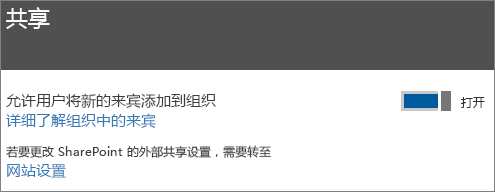
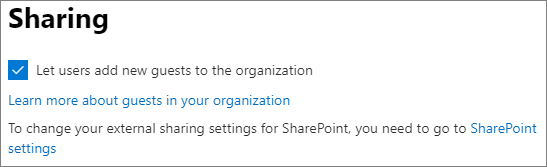
commit translated contents

diff --git a/Enterprise/use-the-centralized-deployment-powershell-cmdlets-to-manage-add-ins.md b/Enterprise/use-the-centralized-deployment-powershell-cmdlets-to-manage-add-ins.md
@@ -1,9 +1,9 @@
 ---
 title: 使用集中部署 PowerShell cmdlet 管理外接程序
-ms.author: twerner
-author: twernermsft
-manager: scotv
-ms.date: 5/31/2017
+ms.author: kvice
+author: kelleyvice-msft
+manager: laurawi
+ms.date: 1/24/2020
 audience: Admin
 ms.topic: article
 ms.service: o365-administration
@@ -16,12 +16,12 @@ search.appverid:
 - BCS160
 ms.assetid: 94f4e86d-b8e5-42dd-b558-e6092f830ec9
 description: 使用集中部署 PowerShell cmdlet 可帮助您部署和管理 Office 365 组织的 Office 外接程序。
-ms.openlocfilehash: 72f7ad69f1154c65ee5f6bd608770461ae775257
-ms.sourcegitcommit: 35c04a3d76cbe851110553e5930557248e8d4d89
+ms.openlocfilehash: 0577a4d69d7b6d32164e66613a9d38a71d9766e4
+ms.sourcegitcommit: 3ed7b1eacf009581a9897524c181afa3e555ad3f
 ms.translationtype: MT
 ms.contentlocale: zh-CN
-ms.lasthandoff: 11/07/2019
-ms.locfileid: "38030857"
+ms.lasthandoff: 01/28/2020
+ms.locfileid: "41570869"
 ---
 # <a name="use-the-centralized-deployment-powershell-cmdlets-to-manage-add-ins"></a>使用集中部署 PowerShell cmdlet 管理外接程序
 
@@ -106,7 +106,7 @@ Get-OrganizationAddIn -ProductId 6a75788e-1c6b-4e9b-b5db-5975a2072122
 若要获取所有外接程序的完整详细信息以及分配的用户和组，请将**OrganizationAddIn** cmdlet 的输出通过管道传递给格式列表 cmdlet，如下面的示例所示。
   
 ```powershell
-Get-OrganizationAddIn |Format-List
+foreach($G in (Get-organizationAddIn)){Get-OrganizationAddIn -ProductId $G.ProductId | Format-List}
 ```
 
 ## <a name="turn-on-or-turn-off-an-add-in"></a>打开或关闭外接程序
@@ -168,53 +168,54 @@ Set-OrganizationAddIn -ProductId 6a75788e-1c6b-4e9b-b5db-5975a2072122 -ManifestP
 Remove-OrganizationAddIn -ProductId 6a75788e-1c6b-4e9b-b5db-5975a2072122
 ```
 
-## <a name="customize-microsoft-store-add-ins-for-your-organization"></a>为你的组织自定义 Microsoft Store 外接程序
+<!--
+## Customize Microsoft Store add-ins for your organization
 
-必须先自定义外接程序，然后才能将其部署到组织中。 此功能不支持早于版本1.1 的外接程序。 
+You must customize the add-in before you deploy it to your organization. Add-ins older than version 1.1 are not supported by this feature. 
 
-我们建议您先将自定义加载项部署到自己，以确保它按预期工作，然后再将其部署到整个组织。
+We recommend that you deploy a customized add-in  to yourself first to make sure it works as expected before you deploy it to your entire organization.
 
-另请注意以下限制：
-- 所有 Url 都必须是绝对 Url （包括 http 或 https）且有效。
-- *DisplayName*不得超过125个字符 
-- *DisplayName*、*资源*和*appdomain*不能包含以下字符： 
+Note also the following restrictions:
+- All URLs must be absolute (include http or https) and valid.
+- *DisplayName* must not exceed 125 characters 
+- *DisplayName*, *Resources* and *AppDomains* must not include the following characters: 
  
     - \<
     -  \>
     -  ;
     -  =   
 
-如果要自定义已部署的加载项，则必须将其卸载到管理中心，并查看 "[从本地缓存中删除加载项](#remove-an-add-in-from-local-cache)"，以了解将其从已部署到的每台计算机中删除的步骤。
+If you want to customize an add-in that has been deployed, you have to uninstall it in the admin center, and see [remove an add-in from local cache](#remove-an-add-in-from-local-cache) for steps to remove it from each computer it has been deployed to.
 
-若要自定义外接程序，请运行**OrganizationAddInOverrides** Cmdlet 和*ProductId*作为参数，后跟要覆盖的标记和新值。 若要了解如何获取*产品 id* ，请参阅本文中的获取外接程序的[详细信息](#get-details-of-an-add-in)。 例如：
+To customize an add-in, run the **Set –OrganizationAddInOverrides** cmdlet with the *ProductId* as a parameter, followed by the tag you want to overwrite and the new value. To find out how to get the *ProductId* see [get details of an add-in](#get-details-of-an-add-in) in this article. For example:
 
 ```powershell
  Set-OrganizationAddInOverrides -ProductId 5b31b349-2c41-4f94-b720-6ee40349d391 -IconUrl "https://site.com/img.jpg" 
 ```
-若要自定义外接程序的多个标记，请将这些标记添加到命令行中：
+To customize multiple tags for an add-in, add those tags to the commandline:
 
 ```powershell
 Set-OrganizationAddInOverrides -ProductId 5b31b349-2c41-4f94-b720-6ee40349d391 -Hosts h1, 2 -DisplayName "New DocuSign W" -IconUrl "https://site.com/img.jpg" 
 ```
 
 > [!IMPORTANT]
-> 您必须将多个自定义标记作为一个命令应用于一个加载项。 如果逐个自定义标记，则只会应用最后一个自定义项。 此外，如果错误地自定义标记，则必须删除所有自定义项并重新开始。
+> You must apply multiple customized tags to one add-in as one command. If you customize tags one by one, only the last customization will be applied. Additionally, if you customize a tag by mistake, you must remove all customizations and start over.
 
-### <a name="tags-you-can-customize"></a>您可以自定义的标记
+### Tags you can customize
 
-| Tag                  | 说明          |
+| Tag                  | Description          |
 | :------------------- | :------------------- |
-| \<IconURL>   </br>| 用作加载项图标的图像的 URL （在管理中心中）。 </br> |
-| \<DisplayName>| 加载项的标题（在管理中心中）。|
-| \<主机>| 将支持外接程序的应用程序的列表。|
-| \<SourceLocation> | 外接程序将连接到的源 URL。| 
-| \<Appdomain> | 外接程序可与之连接的域的列表。 | 
-| \<SupportURL>| 用户可用于访问帮助和支持的 URL。 | 
-| \<资源>  | 此标记包含多个元素，包括标题、工具提示和不同大小的图标。| 
+| \<IconURL>   </br>| The URL of the image used as the add-in’s icon (in admin center). </br> |
+| \<DisplayName>| The title of the add-in  (in admin center).|
+| \<Hosts>| List of apps that will support the add-in.|
+| \<SourceLocation> | The source URL that the add-in will connect to.| 
+| \<AppDomains> | A list of domains that the add-in can connect with. | 
+| \<SupportURL>| The URL users can use to access help and support. | 
+| \<Resources>  | This tag contains a number of elements including titles, tooltips, and icons of different sizes.| 
 |
-### <a name="customize-resources-tag"></a>自定义 Resources 标记
+### Customize Resources tag
 
-可以动态自定义<Resources>清单标记中的任何元素。 首先需要检查清单以查找要向其分配新值的元素 id。 <Resources>标记如下所示：
+Any element in the <Resources> tag of the manifest can be customized dynamically. You first need to check the manifest to find the element id to which you want to assign a new value. The <Resources> tag looks like this:
 
 ```
 <Resources>  
@@ -223,45 +224,47 @@ Set-OrganizationAddInOverrides -ProductId 5b31b349-2c41-4f94-b720-6ee40349d391 -
     </bt:Images> 
 </Resources> 
 ``` 
-在这种情况下，图像的元素 id 为 "img16icon"，与关联的值为 "http：<i></i>//site。<i> </i>com/img. "
+In this case, the element id for the image is “img16icon” and the value associated with it is “http:<i></i>//site.<i></i>com/img.jpg.”
 
-确定要自定义的元素后，请在 Powershell 中使用以下命令将新值分配给这些元素：
+Once you have identified the elements you want to customize, use the following command in Powershell to assign new values to the elements:
 
 ```powershell
 Set-OrganizationAddInOverrides -Resources @{“ElementID” = “New Value”; “NextElementID” = “Next New Value”} 
 ```
 
-您可以根据需要自定义多个元素和命令。
+You can customize as many elements with the command as you need to.
 
-### <a name="remove-customization-from-an-add-in"></a>从外接程序中删除自定义项
+### Remove customization from an add-in
 
-当前可用于删除自定义项的唯一选项是一次性删除所有自定义项：
+The only option currently available for deleting customizations is to delete all of them at once:
 
 ```powershell
 Remove-OrganizationAddInOverrides -ProductId 5b31b349-2c41-4f94-b720-6ee40349d391 
 ```
 
-### <a name="view-add-in-customizations"></a>查看加载项自定义项
+### View add-in customizations
 
-若要查看已应用的自定义项列表，请运行**OrganizationAddInOverrides** cmdlet。 如果在没有*ProductId*的情况下运行**OrganizationAddInOverrides** ，则将返回所有应用了替代的外接程序的列表。  
+To view a list of applied customizations, run the **Get-OrganizationAddInOverrides** cmdlet. If **Get-OrganizationAddInOverrides** is run without a *ProductId* then a list of all add-ins with applied overrides are returned.  
 
 ```powershell
 Get-OrganizationAddInOverrides 
 ```
-如果指定了 ProductId，则将返回应用于该外接程序的替代项列表。 
+If ProductId is specified, then a list of overrides applied to that add-in is returned. 
 
 ```powershell
 Get-OrganizationAddInOverrides -ProductId 5b31b349-2c41-4f94-b720-6ee40349d391 
 ```
 
-### <a name="remove-an-add-in-from-local-cache"></a>从本地缓存中删除外接程序
+### Remove an add-in from local cache
 
-如果已部署加载项，则必须先将其从每台计算机的缓存中删除，然后才能对其进行自定义。 从缓存中 remive 外接程序：
+If an add-in has been deployed, it has to be removed from the cache in each computer before it can be customized. To remive an add-in from cache:
 
-1. 导航到 C：\ 中的 "Users" 文件夹 
-1. 转到您的用户文件夹
-1. 导航到 "AppData\Local\Microsoft\Office"，然后选择与您的 Office 版本相关联的文件夹
-1. 在 " *Wef* " 文件夹中，删除 "*清单*" 文件夹。
+1. Navigate to the “Users” folder in C:\ 
+1. Go to your user folder
+1. Navigate to AppData\Local\Microsoft\Office and select the folder associated with your version of Office
+1. In the *Wef* folder delete the *Manifests* folder.
+
+-->
 
 ## <a name="get-detailed-help-for-each-cmdlet"></a>获取每个 cmdlet 的详细帮助
 

diff --git a/Enterprise/microsoft-365-guest-settings.md b/Enterprise/microsoft-365-guest-settings.md
@@ -10,12 +10,12 @@ ms.collection: SPO_Content
 ms.custom: ''
 localization_priority: Priority
 description: 了解 Microsoft 365 中提供的来宾共享设置。
-ms.openlocfilehash: 3181e1abc44ff62bf3973a87a626291b9e946c51
-ms.sourcegitcommit: b5992f367ccae97a8ea538738fe36d3d703cd6e7
+ms.openlocfilehash: 6fba4a8107962ef7ac7da5f83dd2d7f1d75dccb2
+ms.sourcegitcommit: cc84565301f5c5afc8b767f637135de96115fd6d
 ms.translationtype: HT
 ms.contentlocale: zh-CN
-ms.lasthandoff: 12/10/2019
-ms.locfileid: "39919376"
+ms.lasthandoff: 01/30/2020
+ms.locfileid: "41627872"
 ---
 # <a name="microsoft-365-guest-sharing-settings-reference"></a>Microsoft 365 来宾共享设置参考
 
@@ -55,7 +55,7 @@ Microsoft 365 管理中心具有用于共享和 Office 365 组的组织级别设
 
 ### <a name="sharing"></a>共享
 
-**导航：**[Microsoft 365 管理中心](https://admin.microsoft.com) > 设置 > 安全和隐私 > 共享
+**导航：**[Microsoft 365 管理中心](https://admin.microsoft.com) > 设置 > 设置 >“安全和隐私”选项卡 > 共享
 
 ![Microsoft 365 管理中心中的安全和隐私来宾共享设置的屏幕截图](media/sharepoint-security-privacy-sharing-setting.png)
 
@@ -65,7 +65,7 @@ Microsoft 365 管理中心具有用于共享和 Office 365 组的组织级别设
 
 ### <a name="office-365-groups"></a>Office 365 组
 
-**导航：**[Microsoft 365 管理中心](https://admin.microsoft.com) > 设置 > 服务和加载项 > Office 365 组
+**导航：**[Microsoft 365 管理中心](https://admin.microsoft.com) > 设置 > 设置 > Office 365 组
 
 ![Microsoft 365 管理中心中的 Office 365 组来宾设置的屏幕截图](media/office-365-groups-guest-settings.png)
 
@@ -196,11 +196,13 @@ Microsoft 365 管理中心具有用于共享和 Office 365 组的组织级别设
 
 **管理员角色：** SharePoint 管理员
 
+由于这些设置取决于 SharePoint 的组织范围设置，如果组织级别设置发生更改，则网站的有效共享设置可能会随之更改。 如果你在此处选择设置，并且组织级别随后设置为更严格的值，则此网站将以这一更严格的值运行。 例如，如果你选择“**任何人**”，并且组织级别设置随后设为“**新来宾和现有来宾**”，则此网站将仅允许新来宾和现有来宾进行共享。 如果组织级别设置随后设置回“**任何人**”，则此网站将再次允许使用“*任何人*”链接。
+
 ### <a name="site-sharing"></a>网站共享
 
 可为 SharePoint 中的每个网站设置来宾共享权限。 此设置适用于网站共享以及文件和文件夹共享。 （“*任何人*”共享不可用于网站共享。 如果你选择“**任何人**”，则用户可以使用“*任何人*”链接来共享文件和文件夹，并且网站本身可以与新来宾和现有来宾共享。）
 
-**导航：** SharePoint 管理中心 > 活动网站 > 选择网站 > 共享
+**导航：** SharePoint 管理中心 > 活动站点 > 选择站点 >“策略”选项卡 > 编辑外部共享
 
 ![SharePoint 网站外部共享设置的屏幕截图](media/sharepoint-site-external-sharing-settings.png)
 
@@ -208,7 +210,22 @@ Microsoft 365 管理中心具有用于共享和 Office 365 组的组织级别设
 |:-----|:-----|:-----|
 |网站内容可与以下人员共享|因网站类型而异（参见下表）|指示此网站允许的外部共享类型。 此处提供的选项取决于 SharePoint 的组织级别共享设置。|
 
-由于这些设置取决于 SharePoint 的组织范围设置，如果组织级别设置发生更改，则网站的有效共享设置可能会随之更改。 如果你在此处选择设置，并且组织级别随后设置为更严格的值，则此网站将以这一更严格的值运行。 例如，如果你选择“**任何人**”，并且组织级别设置随后设为“**新来宾和现有来宾**”，则此网站将仅允许新来宾和现有来宾进行共享。 如果组织级别设置随后设置回“**任何人**”，则此网站将再次允许使用“*任何人*”链接。
+### <a name="site-file-and-folder-link-settings"></a>网站文件和文件夹链接设置
+
+你可以为每个网站设置链接类型和权限的默认值，以及“*任何人*”链接的到期设置。 在网站级别进行设置时，这些设置会覆盖组织级别的设置。 请注意，如果在组织级别禁用“*任何人*”链接，则“*任何人*”将不会是网站级别的可用链接类型。
+
+**导航：** SharePoint 管理中心 > 活动站点 > 选择站点 >“策略”选项卡 > 编辑外部共享
+
+![SharePoint 网站级别链接共享设置的屏幕截图](media/sharepoint-site-link-sharing-settings.png)
+
+|**设置**|**默认**|**说明**|
+|:-----|:-----|:-----|
+|按域限制共享|关闭|此设置允许你为共享指定允许或阻止的域列表。 如果指定了允许的域，则只能将共享邀请发送到这些域。 如果指定了拒绝的域，则不能将共享邀请发送到这些域。<br><br> 此设置不能用于覆盖在组织或 Azure AD 级别设置的域限制。|
+|默认共享链接类型|与组织级别设置相同|此设置允许你指定在此网站中显示给用户的默认共享链接。 “*与组织级别设置相同*”选项由组织和网站共享设置的组合进行定义。|
+|“任何人”链接的高级设置|与组织级别设置相同|指定在为此网站中某个文件创建“*任何人*”链接后经过多少天到期。 无法续订已过期的链接。 如果需要在过期后继续共享，请创建新链接。|
+|默认链接权限|与组织级别设置相同|此设置允许你为此网站中文件的共享链接指定默认权限（“查看”或“编辑”）。|
+
+### <a name="default-site-sharing-settings"></a>默认网站共享设置
 
 下表显示了每种网站类型的默认共享设置。
 

diff --git a/Enterprise/includes/office-365-u.s.-government-dod-endpoints.md b/Enterprise/includes/office-365-u.s.-government-dod-endpoints.md
@@ -1,7 +1,7 @@
 <!--THIS FILE IS AUTOMATICALLY GENERATED. MANUAL CHANGES WILL BE OVERWRITTEN.-->
 <!--Please contact the Office 365 Endpoints team with any questions.-->
-<!--USGovDoD endpoints version 2020010200-->
-<!--File generated 2020-01-02 11:00:09.4855-->
+<!--USGovDoD endpoints version 2020012800-->
+<!--File generated 2020-01-28 11:00:16.1582-->
 
 ## <a name="exchange-online"></a>Exchange Online
 
@@ -15,9 +15,9 @@ ID | 类别 | ER | Addresses | 端口
 ## <a name="sharepoint-online-and-onedrive-for-business"></a>SharePoint Online 和 OneDrive for Business
 
 ID | 类别 | ER | Addresses | 端口
--- | -------------------- | --- | -------------------------------------------------------------------------------------------------------------------------- | ----------------
+-- | -------------------- | --- | ------------------------------------------------------------------------------------------------------------------- | ----------------
 9  | 优化<BR>必填 | 是 | `*.dps.mil, *.sharepoint-mil.us`<BR>`20.34.12.0/22, 104.212.48.0/23, 2001:489a:2204::/63, 2001:489a:2204:c00::/54` | **TCP：** 443、80
-10  | 默认<BR>必填 | 否 | `*.wns.windows.com, ajax.aspnetcdn.com, g.live.com, odc.officeapps.live.com, officeclient.microsoft.com, oneclient.sfx.ms` | **TCP：** 443、80
+10   | 默认<BR>必填 | 否 | `*.wns.windows.com, g.live.com, odc.officeapps.live.com, officeclient.microsoft.com, oneclient.sfx.ms` | **TCP：** 443、80
 合 | 允许<BR>必填 | 是 | `*.od.apps.mil, od.apps.mil` | **TCP：** 443、80
 20 | 默认<BR>必填 | 否 | `*.svc.ms, az741266.vo.msecnd.net, pf.pipe.aria.microsoft.com, spoprod-a.akamaihd.net, static.sharepointonline.com` | **TCP：** 443、80
 
@@ -26,7 +26,7 @@ ID | 类别 | ER | Addresses | 端口
 ID | 类别 | ER | Addresses | 端口
 -- | -------------------- | --- | -------------------------------------------------------------------------------------------------------------------------------------------------------------------------------------------------------------------------------------------------------------------------------------------------------------------------------------------------------- | -----------------------------------------------
 7 | 优化<BR>必填 | 是 | `*.dod.teams.microsoft.us, *.online.dod.skypeforbusiness.us, dod.teams.microsoft.us`<BR>`52.127.64.0/21, 52.180.249.148/32, 52.180.252.118/32, 52.180.252.187/32, 52.180.253.137/32, 52.180.253.154/32, 52.181.165.243/32, 52.181.166.119/32, 52.181.167.43/32, 52.181.167.64/32, 52.181.200.104/32, 104.212.32.0/22, 104.212.60.0/23, 195.134.240.0/22` | **TCP：** 443<BR>**UDP：** 3478、3479、3480、3481
-不足 | 默认<BR>必填 | 否 | `*.cdn.office.net, statics.teams.microsoft.com` | **TCP：** 443
+不足 | 默认<BR>必填 | 否 | `dodteamsapuiwebcontent.blob.core.usgovcloudapi.net, msteamsstatics.blob.core.usgovcloudapi.net, statics.teams.microsoft.com` | **TCP：** 443
 22 | 允许<BR>必填 | 是 | `endpoint1-proddodcecompsvc-dodc.streaming.media.usgovcloudapi.net, endpoint1-proddodeacompsvc-dode.streaming.media.usgovcloudapi.net`<BR>`52.181.180.135/32, 52.182.53.6/32` | **TCP：** 443
 
 ## <a name="microsoft-365-common-and-office-online"></a>Microsoft 365 Common 和 Office Online
@@ -42,3 +42,4 @@ ID | 类别 | ER | Addresses | 端口
 17  | 默认<BR>必填 | 否 | `activation.sls.microsoft.com, crl.microsoft.com, go.microsoft.com, insertmedia.bing.office.net, ocsa.officeapps.live.com, ocsredir.officeapps.live.com, ocws.officeapps.live.com, office15client.microsoft.com, officecdn.microsoft.com, officecdn.microsoft.com.edgesuite.net, officepreviewredir.microsoft.com, officeredir.microsoft.com, ols.officeapps.live.com, r.office.microsoft.com` | **TCP：** 443、80
 18  | 默认<BR>必填 | 否 | `cdn.odc.officeapps.live.com, odc.officeapps.live.com, officeclient.microsoft.com` | **TCP：** 443、80
 24 | 默认<BR>必填 | 否 | `lpcres.delve.office.com` | **TCP：** 443
+word | 默认<BR>必填 | 否 | `*.cdn.office.net` | **TCP：** 443

diff --git a/Enterprise/includes/office-365-u.s.-government-gcc-high-endpoints.md b/Enterprise/includes/office-365-u.s.-government-gcc-high-endpoints.md
@@ -1,7 +1,7 @@
 <!--THIS FILE IS AUTOMATICALLY GENERATED. MANUAL CHANGES WILL BE OVERWRITTEN.-->
 <!--Please contact the Office 365 Endpoints team with any questions.-->
-<!--USGovGCCHigh endpoints version 2020010200-->
-<!--File generated 2020-01-02 11:00:11.2921-->
+<!--USGovGCCHigh endpoints version 2020012800-->
+<!--File generated 2020-01-28 11:00:19.2029-->
 
 ## <a name="exchange-online"></a>Exchange Online
 
@@ -15,9 +15,9 @@ ID | 类别 | ER | Addresses | 端口
 ## <a name="sharepoint-online-and-onedrive-for-business"></a>SharePoint Online 和 OneDrive for Business
 
 ID | 类别 | ER | Addresses | 端口
--- | -------------------- | --- | --------------------------------------------------------------------------------------------------------------------------------------------- | ----------------
+-- | -------------------- | --- | ------------------------------------------------------------------------------------------------------------------------- | ----------------
 9  | 优化<BR>必填 | 是 | `*.sharepoint.us`<BR>`20.34.8.0/22, 104.212.50.0/23, 2001:489a:2204:2::/63, 2001:489a:2204:800::/54` | **TCP：** 443、80
-10  | 默认<BR>必填 | 否 | `*.wns.windows.com, admin.onedrive.us, ajax.aspnetcdn.com, g.live.com, odc.officeapps.live.com, officeclient.microsoft.com, oneclient.sfx.ms` | **TCP：** 443、80
+10   | 默认<BR>必填 | 否 | `*.wns.windows.com, admin.onedrive.us, g.live.com, odc.officeapps.live.com, officeclient.microsoft.com, oneclient.sfx.ms` | **TCP：** 443、80
 20 | 默认<BR>必填 | 否 | `*.svc.ms, az741266.vo.msecnd.net, spoprod-a.akamaihd.net, static.sharepointonline.com, tb.pipe.aria.microsoft.com` | **TCP：** 443、80
 
 ## <a name="skype-for-business-online-and-microsoft-teams"></a>Skype for Business Online 和 Microsoft Teams
@@ -25,7 +25,7 @@ ID | 类别 | ER | Addresses | 端口
 ID | 类别 | ER | Addresses | 端口
 -- | -------------------- | --- | --------------------------------------------------------------------------------------------------------------------------------------------------------------------------------------------------------------------------------------------------------------------------------------------------------------------------------- | ---------------------------------------------------
 7  | 优化<BR>必填 | 是 | `*.gov.teams.microsoft.us, *.infra.gov.skypeforbusiness.us, *.online.gov.skypeforbusiness.us, gov.teams.microsoft.us`<BR>`52.127.88.0/21, 52.238.114.160/32, 52.238.115.146/32, 52.238.117.171/32, 52.238.118.132/32, 52.247.167.192/32, 52.247.169.1/32, 52.247.172.50/32, 52.247.172.103/32, 104.212.44.0/22, 195.134.228.0/22` | **TCP：** 443、80<BR>**UDP：** 3478、3479、3480、3481
-不足 | 默认<BR>必填 | 否 | `*.cdn.office.net, statics.teams.microsoft.com` | **TCP：** 443
+不足 | 默认<BR>必填 | 否 | `msteamsstatics.blob.core.usgovcloudapi.net, statics.teams.microsoft.com, teamsapuiwebcontent.blob.core.usgovcloudapi.net` | **TCP：** 443
 
 ## <a name="microsoft-365-common-and-office-online"></a>Microsoft 365 Common 和 Office Online
 
@@ -42,3 +42,4 @@ ID | 类别 | ER | Addresses | 端口
 合 | 默认<BR>必填 | 否 | `cdn.odc.officeapps.live.com, odc.officeapps.live.com, officeclient.microsoft.com` | **TCP：** 443、80
 上午 | 默认<BR>必填 | 否 | `*.office365.us` | **TCP：** 443、80
 24 | 默认<BR>必填 | 否 | `lpcres.delve.office.com` | **TCP：** 443
+word | 默认<BR>必填 | 否 | `*.cdn.office.net` | **TCP：** 443

diff --git a/Enterprise/includes/office-365-worldwide-endpoints.md b/Enterprise/includes/office-365-worldwide-endpoints.md
@@ -1,7 +1,7 @@
 <!--THIS FILE IS AUTOMATICALLY GENERATED. MANUAL CHANGES WILL BE OVERWRITTEN.-->
 <!--Please contact the Office 365 Endpoints team with any questions.-->
-<!--Worldwide endpoints version 2020010200-->
-<!--File generated 2020-01-02 11:00:04.2344-->
+<!--Worldwide endpoints version 2020012800-->
+<!--File generated 2020-01-28 11:00:10.4576-->
 
 ## <a name="exchange-online"></a>Exchange Online
 
@@ -14,7 +14,7 @@ ID | 类别 | ER | Addresses | 端口
 6  | 允许<BR>可选<BR>**备注：** Exchange Online POP3 迁移 | 是 | `*.outlook.office.com, outlook.office365.com`<BR>`13.107.6.152/31, 13.107.18.10/31, 13.107.128.0/22, 23.103.160.0/20, 40.96.0.0/13, 40.104.0.0/15, 52.96.0.0/14, 131.253.33.215/32, 132.245.0.0/16, 150.171.32.0/22, 191.234.140.0/22, 204.79.197.215/32, 2603:1006::/40, 2603:1016::/36, 2603:1026::/36, 2603:1036::/36, 2603:1046::/36, 2603:1056::/36, 2603:1096::/38, 2603:1096:400::/40, 2603:1096:600::/40, 2603:1096:a00::/39, 2603:1096:c00::/40, 2603:10a6:200::/40, 2603:10a6:400::/40, 2603:10a6:600::/40, 2603:10a6:800::/40, 2603:10d6:200::/40, 2620:1ec:4::152/128, 2620:1ec:4::153/128, 2620:1ec:c::10/128, 2620:1ec:c::11/128, 2620:1ec:d::10/128, 2620:1ec:d::11/128, 2620:1ec:8f0::/46, 2620:1ec:900::/46, 2620:1ec:a92::152/128, 2620:1ec:a92::153/128, 2a01:111:f400::/48` | **TCP：** 995
 8  | 默认<BR>必填 | 否 | `*.outlook.com, *.outlook.office.com, attachments.office.net` | **TCP：** 443、80
 9  | 允许<BR>必填 | 是 | `*.protection.outlook.com`<BR>`40.92.0.0/15, 40.107.0.0/16, 52.100.0.0/14, 52.238.78.88/32, 104.47.0.0/17, 2a01:111:f403::/48` | **TCP：** 443
-10  | 允许<BR>必填 | 是 | `*.mail.protection.outlook.com`<BR>`40.92.0.0/15, 40.107.0.0/16, 52.100.0.0/14, 104.47.0.0/17, 2a01:111:f400::/48, 2a01:111:f403::/48` | **TCP：** 25
+10   | 允许<BR>必填 | 是 | `*.mail.protection.outlook.com`<BR>`40.92.0.0/15, 40.107.0.0/16, 52.100.0.0/14, 104.47.0.0/17, 2a01:111:f400::/48, 2a01:111:f403::/48` | **TCP：** 25
 145 | 默认值<BR>可选<BR>**备注：** 此终结点用于遥测目的。 | 否 | `*.measure.office.com` | **TCP：** 443、80
 
 ## <a name="sharepoint-online-and-onedrive-for-business"></a>SharePoint Online 和 OneDrive for Business
@@ -135,3 +135,4 @@ ID | 类别 | ER | Addresses | 端口
 130 | 默认<BR>必填 | 否 | `*.loki.delve.office.com, loki.delve.office.com, loki.delve-gcc.office.com, lpcres.delve.office.com` | **TCP：** 443
 147 | 默认<BR>必填 | 否 | `*.office.com` | **TCP：** 443、80
 148 | 默认<BR>必填 | 否 | `cdnprod.myanalytics.microsoft.com, myanalytics.microsoft.com, myanalytics-gcc.microsoft.com` | **TCP：** 443、80
+149 | 默认<BR>必填 | 否 | `workplaceanalytics.cdn.office.net, workplaceanalytics.office.com` | **TCP：** 443、80

diff --git a/Enterprise/turn-off-directory-synchronization.md b/Enterprise/turn-off-directory-synchronization.md
@@ -17,12 +17,12 @@ search.appverid:
 - MED150
 ms.assetid: ee5f861e-bd48-4267-83d1-a4ead4b4a00d
 description: 了解如何使用 PowerShell 关闭 Office 365 的目录同步
-ms.openlocfilehash: de7cfcbc11ed281e412c68674b808613b3421041
-ms.sourcegitcommit: 3539ec707f984de6f3b874744ff8b6832fbd665e
+ms.openlocfilehash: efee8b216d63f32ac64a559aca3bcb55b0a933c1
+ms.sourcegitcommit: 3ed7b1eacf009581a9897524c181afa3e555ad3f
 ms.translationtype: MT
 ms.contentlocale: zh-CN
-ms.lasthandoff: 12/17/2019
-ms.locfileid: "40072394"
+ms.lasthandoff: 01/28/2020
+ms.locfileid: "41570889"
 ---
 # <a name="turn-off-directory-synchronization-for-office-365"></a>禁用 Office 365 的目录同步
 您可以使用 PowerShell 关闭目录同步。 但是，不建议您将目录同步作为故障排除步骤关闭。 如果您需要有关对目录同步进行故障排除的帮助，请参阅[解决 Office 365 文章中的目录同步问题](fix-problems-with-directory-synchronization.md)。 
@@ -32,7 +32,7 @@ ms.locfileid: "40072394"
 ## <a name="turn-off-directory-synchronization"></a>关闭目录同步  
 若要关闭目录同步，请执行以下操作：
   
-1. 首先，安装所需的软件并连接到 Office 365 订阅。 有关这两种情况的说明，请参阅[连接到 Office 365 PowerShell](https://go.microsoft.com/fwlink/p/?LinkId=821938)。
+1. 首先，安装所需的软件并连接到 Office 365 订阅。 有关说明，请参阅[连接到适用于 Windows PowerShell 的 Microsoft Azure Active Directory 模块](https://docs.microsoft.com/office365/enterprise/powershell/connect-to-office-365-powershell#connect-with-the-microsoft-azure-active-directory-module-for-windows-powershell)。
     
 2. 使用[MsolDirSyncEnabled](https://go.microsoft.com/fwlink/p/?LinkId=821939)禁用目录同步： 
     
